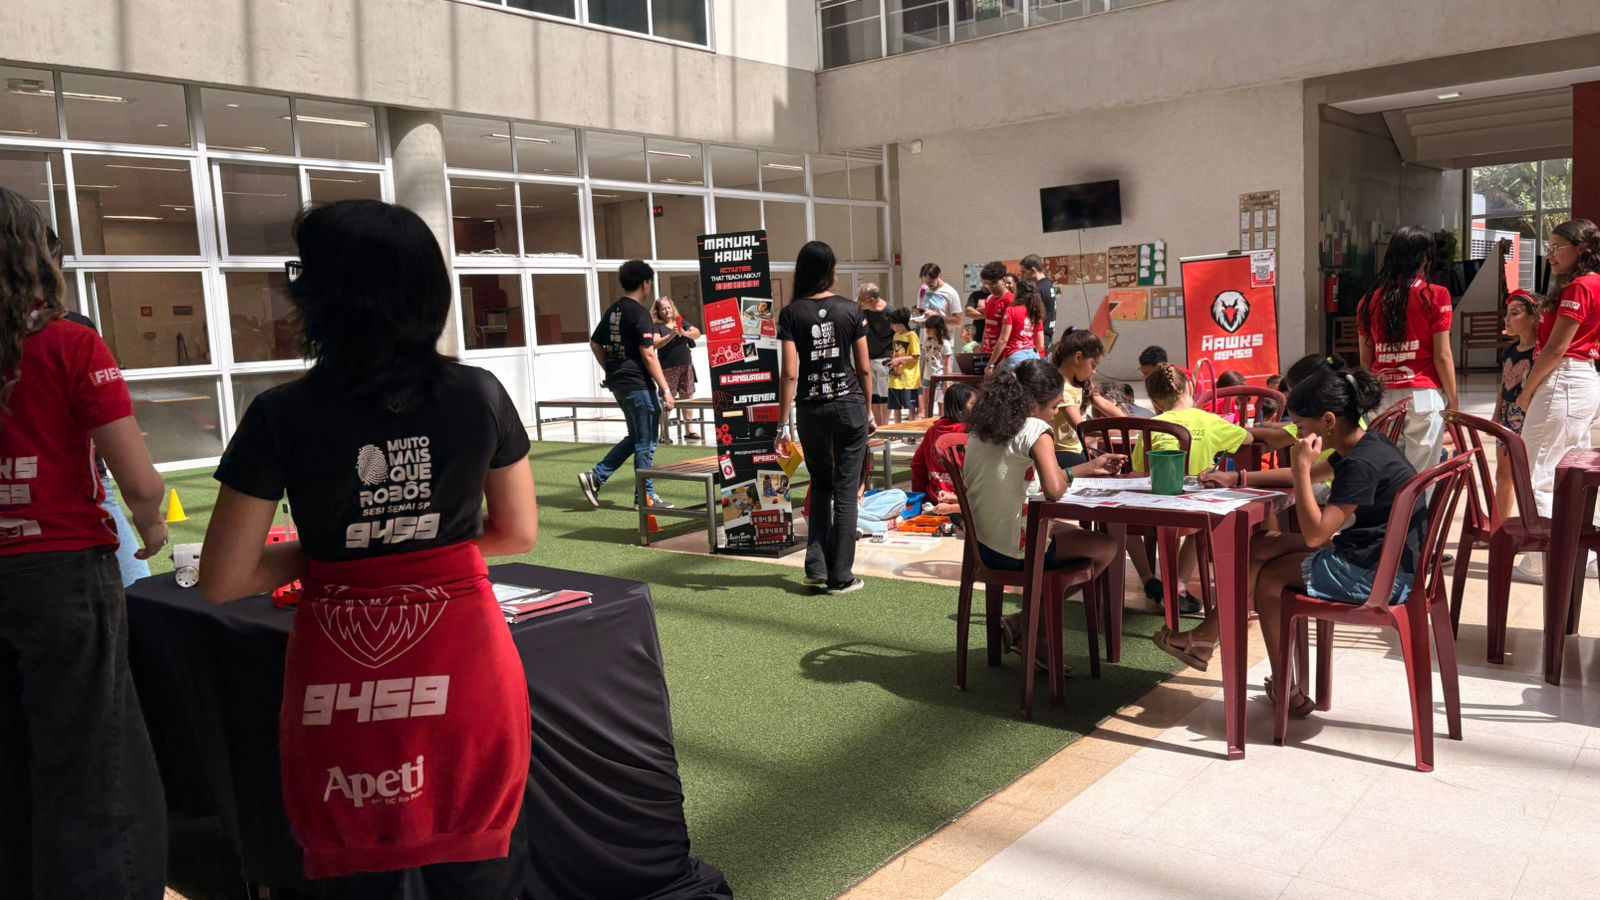
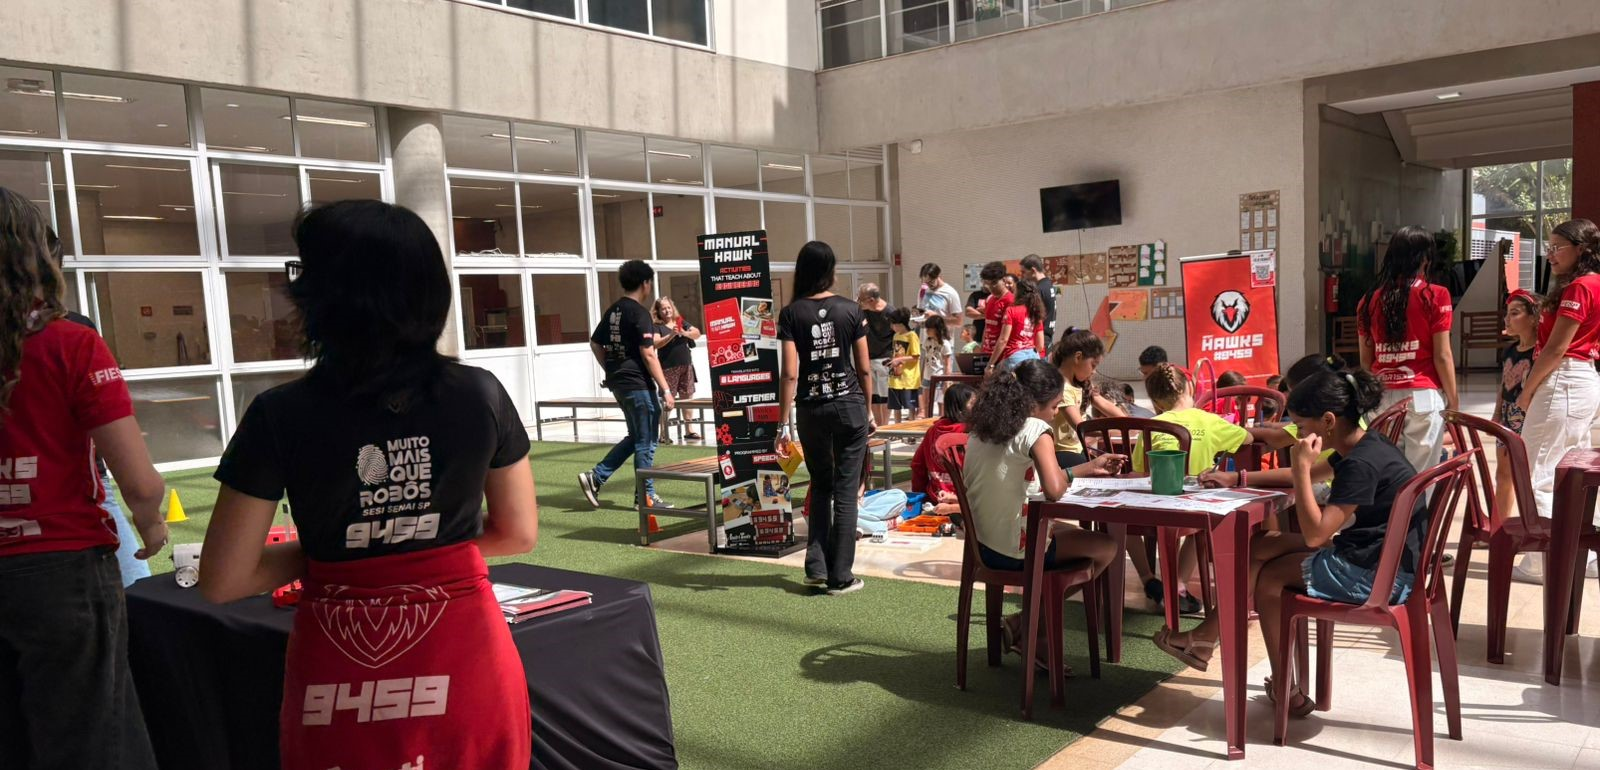
att

diff --git a/hawks.html b/hawks.html
@@ -210,6 +210,10 @@
                 <div class="gallery-item" data-aos="fade-up" data-aos-delay="600">
                     <img src="assets/galeria/foto23.png" alt="Hawks em ação" class="zoomable">
                 </div>
+
+                <div class="gallery-item" data-aos="fade-up" data-aos-delay="600">
+                    <img src="assets/galeria/Foto24.jpeg" alt="Hawks em ação" class="zoomable">
+                </div>
             </div>
         </div>
 

diff --git a/Temporada2025-26.html b/Temporada2025-26.html
@@ -70,7 +70,7 @@
                         <h3>3º Geração</h3>
                         <h4>Equipe 2025-2026</h4>
 
-                        <p><br> Início da nova temporada de competições<br> em janeiro de 2026 <br> Alce voo conosco!!!</p>
+                        <p><br> Início da nova temporada de competições 2026 <br> Alce voo conosco!!!</p>
 
                         <!--
                         <p><br><strong>Robô:</strong>  </p>
